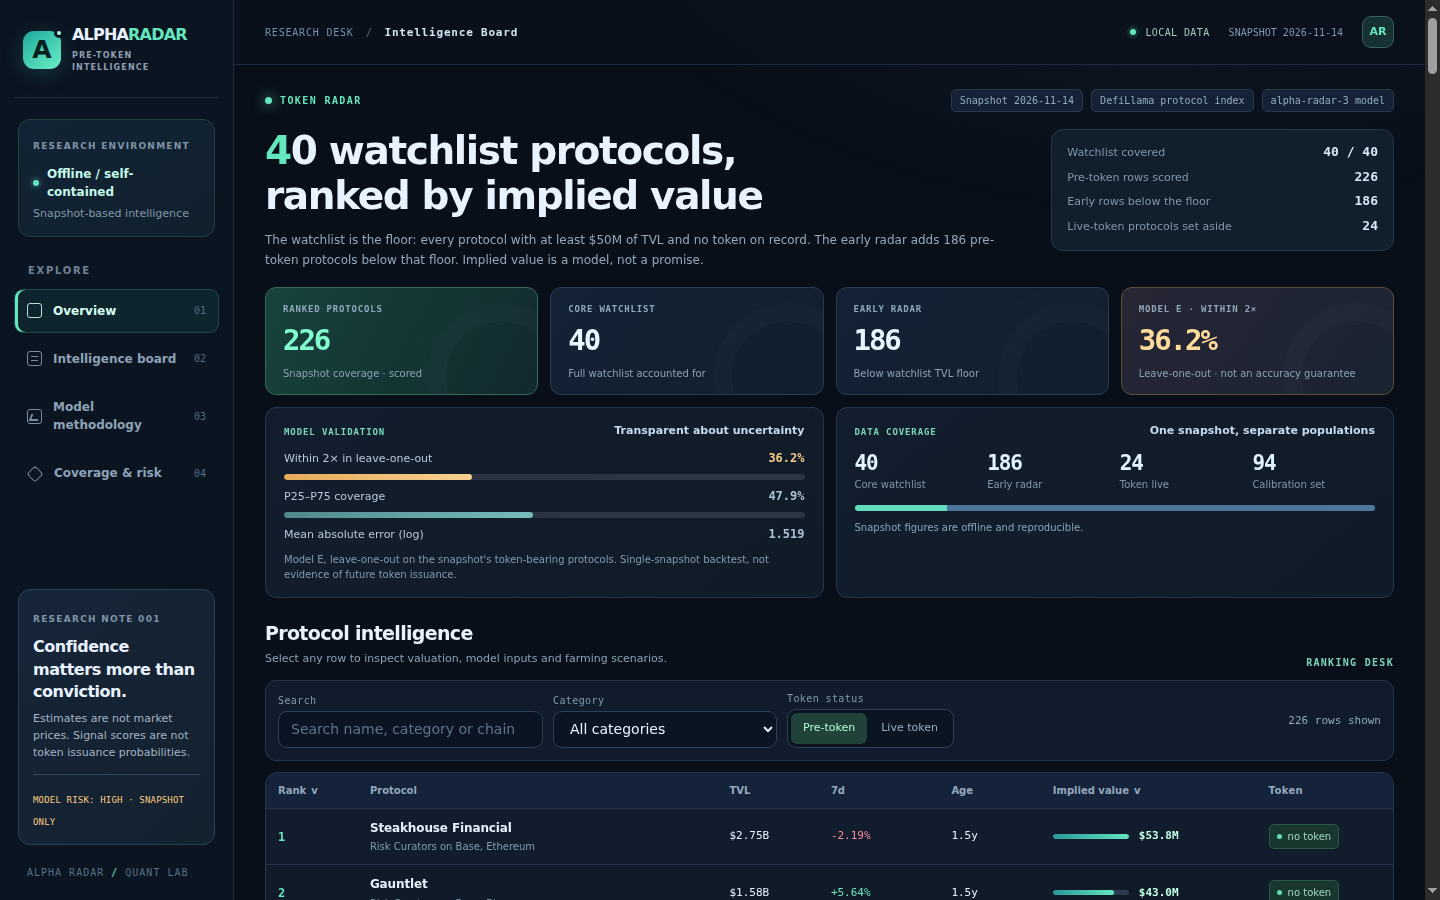
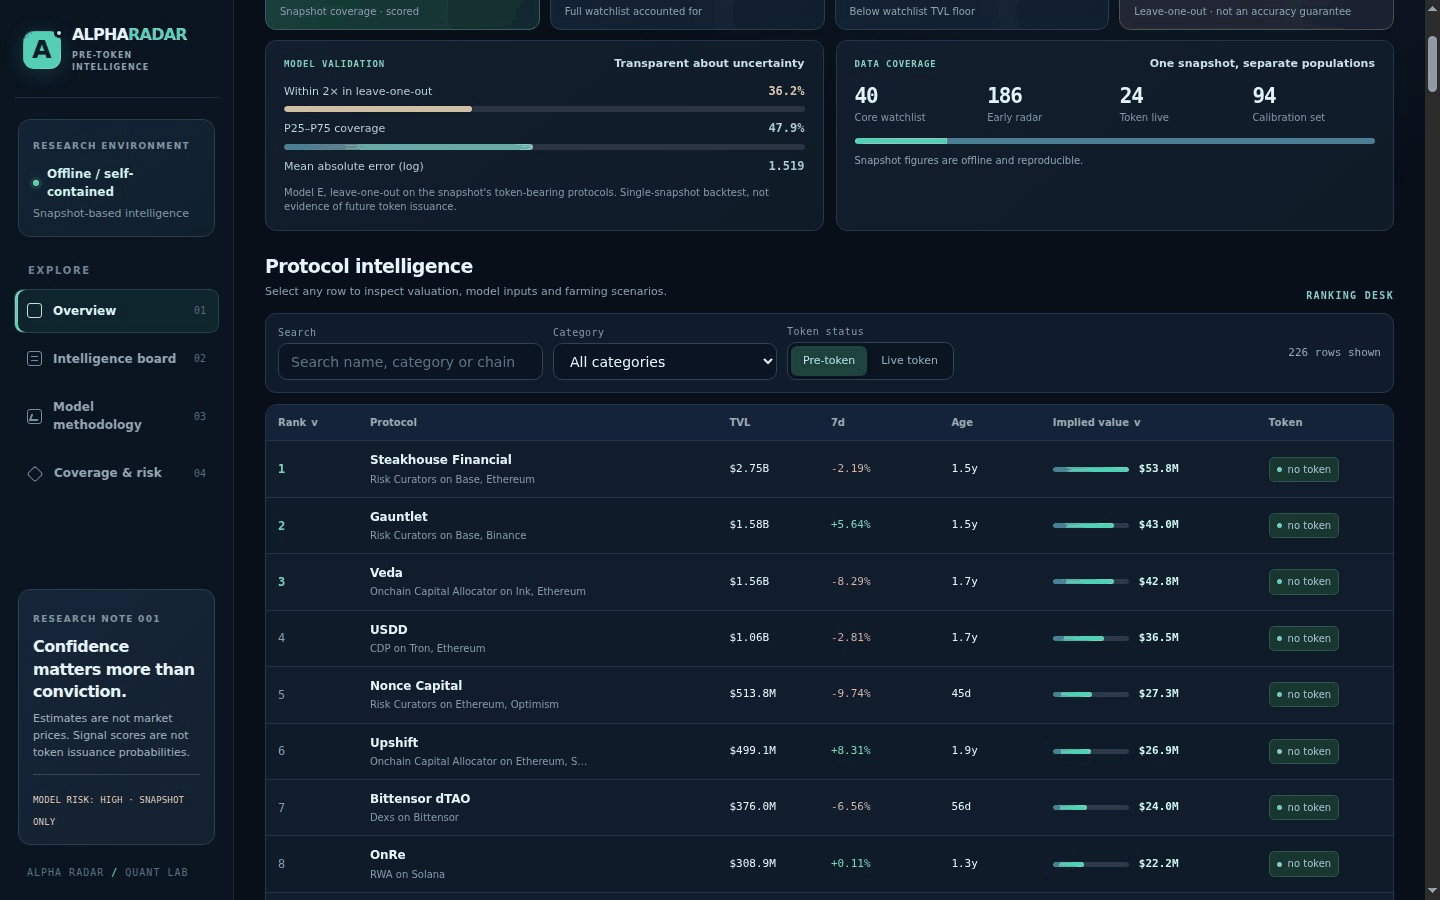
ui: optimize evidence screenshots and show risk context

diff --git a/dashboard/app.css b/dashboard/app.css
@@ -44,15 +44,15 @@ button,input,select{font:inherit;color:inherit}button{cursor:pointer}a{color:var
 .breadcrumb{display:flex;align-items:center;gap:12px;font:10px var(--font-num);letter-spacing:.08em;color:#7690a6}.breadcrumb b{color:#486174}.breadcrumb strong{color:#d1e5f0;font-size:11px}
 .bar-right{display:flex;align-items:center;gap:19px}.quiet-pill{display:flex;align-items:center;gap:9px;color:#a3cabb;font:10px var(--font-num);letter-spacing:.04em}
 .bar-date{font:10px var(--font-num);color:#8397aa}.profile-mark{border:1px solid #365e60;color:var(--accent);background:#173034;border-radius:9px;width:32px;height:32px;display:flex;justify-content:center;align-items:center;font-weight:800;font-size:11px}
-.shell{max-width:1510px;margin:0 auto;padding:24px 31px 45px}
-.top{display:flex;justify-content:space-between;align-items:center;gap:14px;margin-bottom:17px}.brand{display:flex;align-items:center;gap:8px}.mark{display:inline-block;width:7px;height:7px;background:var(--accent);box-shadow:0 0 13px var(--accent);border-radius:50%}.brand-name{font:700 10px var(--font-num);letter-spacing:.14em;color:var(--accent);text-transform:uppercase}
-.top-meta{display:flex;flex-wrap:wrap;gap:8px}.top-meta span{font:10px var(--font-num);color:#93abc0;background:#152235;border:1px solid #293a4e;border-radius:5px;padding:5px 8px}
-.lede{display:grid;grid-template-columns:minmax(0,1.45fr) minmax(260px,.65fr);gap:22px;align-items:start;margin-bottom:17px}
-.lede h1{font-size:clamp(24px,2.75vw,39px);max-width:740px;line-height:1.15}.lede h1::first-letter{color:var(--accent)}
-.lede p{color:#94a8b9;font-size:12px;line-height:1.7;max-width:730px;margin-top:11px}
-.facts{display:grid;gap:7px;align-content:start;border:1px solid var(--border);border-radius:12px;background:#111e2c;padding:14px 15px}.fact{display:flex;align-items:baseline;justify-content:space-between;gap:12px}.fact b{font:600 13px var(--font-num);color:#d7e7f7}.fact span{color:#8297a9;font-size:11px}
-.radar-metrics{display:grid;grid-template-columns:repeat(4,minmax(0,1fr));gap:12px;margin-bottom:12px;scroll-margin-top:85px}
-.radar-metric{min-height:108px;border:1px solid #2a3b50;background:linear-gradient(128deg,#142236,#111e2d);border-radius:11px;padding:16px 17px 13px;display:flex;flex-direction:column;position:relative;overflow:hidden}
+.shell{max-width:1510px;margin:0 auto;padding:18px 31px 38px}
+.top{display:flex;justify-content:space-between;align-items:center;gap:14px;margin-bottom:11px}.brand{display:flex;align-items:center;gap:8px}.mark{display:inline-block;width:7px;height:7px;background:var(--accent);box-shadow:0 0 13px var(--accent);border-radius:50%}.brand-name{font:700 10px var(--font-num);letter-spacing:.14em;color:var(--accent);text-transform:uppercase}
+.top-meta{display:flex;flex-wrap:wrap;gap:6px}.top-meta span{font:9px var(--font-num);color:#93abc0;background:#152235;border:1px solid #293a4e;border-radius:5px;padding:4px 7px}
+.lede{display:grid;grid-template-columns:minmax(0,1.55fr) minmax(260px,.55fr);gap:18px;align-items:start;margin-bottom:11px}
+.lede h1{font-size:clamp(24px,2.3vw,33px);max-width:740px;line-height:1.1}.lede h1::first-letter{color:var(--accent)}
+.lede p{color:#94a8b9;font-size:11px;line-height:1.5;max-width:730px;margin-top:7px}
+.facts{display:grid;grid-template-columns:1fr 1fr;gap:5px 12px;align-content:start;border:1px solid var(--border);border-radius:12px;background:#111e2c;padding:10px 12px}.fact{display:flex;align-items:baseline;justify-content:space-between;gap:8px}.fact b{font:600 12px var(--font-num);color:#d7e7f7}.fact span{color:#8297a9;font-size:10px}
+.radar-metrics{display:grid;grid-template-columns:repeat(4,minmax(0,1fr));gap:10px;margin-bottom:10px;scroll-margin-top:85px}
+.radar-metric{min-height:82px;border:1px solid #2a3b50;background:linear-gradient(128deg,#142236,#111e2d);border-radius:11px;padding:11px 14px 10px;display:flex;flex-direction:column;position:relative;overflow:hidden}
 .radar-metric:before{content:"";position:absolute;right:-21px;bottom:-40px;width:112px;height:112px;border-radius:50%;border:1px solid rgba(156,188,212,.07);box-shadow:0 0 0 17px rgba(156,188,212,.022),0 0 0 37px rgba(156,188,212,.012)}
 .radar-metric.metric-primary{background:linear-gradient(117deg,#17433d,#12292d);border-color:#346a5c}.radar-metric.metric-caution{border-color:#5c4f37;background:linear-gradient(126deg,#272635,#192332)}
 .metric-label{font:700 9px var(--font-num);letter-spacing:.09em;color:#91a8bb}.metric-value{font:650 29px/1.25 var(--font-num);letter-spacing:-.07em;color:#e8f6ff;margin-top:8px}.metric-primary .metric-value{color:#83ffcf}.metric-caution .metric-value{color:#ffdb9c}.metric-note{font-size:10px;color:#8ca2b2;margin-top:auto}
@@ -85,7 +85,8 @@ td:nth-child(1){color:#7f9cb1;font:12px var(--font-num)}tbody tr:nth-child(-n+3)
 .detail-head{display:flex;align-items:start;justify-content:space-between;gap:14px;padding-bottom:16px}.detail-head h2{font-size:27px;margin-top:8px;letter-spacing:-.04em}.detail-head .sub{font-size:11px;margin-top:4px}.detail .brand-name{font-size:10px}.close{height:34px;min-width:48px;border:1px solid #33495b;border-radius:8px;background:#17283b;font-size:11px;color:#d3e7f8;padding:0 12px}
 .detail-section{border-top:1px solid #2a3c50;padding:17px 0 0;margin-top:17px}.detail-section h3{font-size:14px;margin-bottom:10px;color:#eef9ff}
 .equation{display:grid;gap:0;font-family:var(--font-num);font-size:11px}.equation>div{display:flex;align-items:center;justify-content:space-between;gap:13px;padding:8px 0;border-bottom:1px solid #203145}.equation>div>span{color:#91a5ba;flex:1}.equation b{color:#e1f4ff;font-weight:600;text-align:right}.detail-section>.sub{font-size:11px;line-height:1.65;margin:9px 0;color:#a6b9c9}
-.detail-section .equation>div:last-child b{color:#73e5c0}.steps{margin:0;padding-left:20px;display:grid;gap:12px}.steps li{color:#6ee3c1;padding-left:5px}.steps li b{color:#d8eaf8;display:block;font-weight:600;font-size:12px}.cost{color:#93a8bb;font-size:11px;font-family:var(--font-num)}
+.risk-section{background:linear-gradient(135deg,rgba(44,52,69,.42),rgba(26,37,51,.42));border:1px solid #3a485b;border-radius:10px;padding:14px 15px 15px;margin-top:17px}.risk-section h3{color:#ffdaa0}.risk-flags{margin:10px 0 0;padding-left:18px;display:grid;gap:7px;color:#c8d7e4;font-size:11px;line-height:1.45}.risk-flags li::marker{color:var(--amber)}
+.steps{margin:0;padding-left:20px;display:grid;gap:12px}.steps li{color:#6ee3c1;padding-left:5px}.steps li b{color:#d8eaf8;display:block;font-weight:600;font-size:12px}.cost{color:#93a8bb;font-size:11px;font-family:var(--font-num)}
 #sim{background:#152437;border:1px solid #304657;border-radius:11px;padding:16px!important;margin-top:20px}
 #sim label{display:flex;flex-direction:column;gap:5px;color:#98afbd;font-size:11px}#sim input{height:34px;font:12px var(--font-num);padding:7px 9px;border-radius:7px;border:1px solid #354c5b;background:#0b1827;color:#e9f3ff;min-width:0;width:100%}
 #sim .equation:nth-of-type(2){display:grid;grid-template-columns:1fr 1fr;gap:9px 12px;margin:13px 0}#sim .equation:nth-of-type(2)>div{padding:0;border:0;display:block}

diff --git a/dashboard/app.js b/dashboard/app.js
@@ -384,6 +384,11 @@
       el('p', { class: 'sub', text: 'Signals: ' + row.signal_note + '. The score is a weighted count of record features, not a probability. It has no outcome data behind it and is not calibrated.' }),
       el('p', { class: 'sub', text: 'Low and high scale the model value by exp(P25) and exp(P75) of the log residuals from the ' + DATA.calibration.n + ' token-bearing protocols in this snapshot (Model E band). Model E leave-one-out refit: within 2× of the true value ' + DATA.calibration.e_loo_within_2x_pct + '% of the time, inside the P25–P75 band ' + DATA.calibration.e_loo_p25_p75_cov_pct + '% of the time, mean absolute log error ' + DATA.calibration.e_loo_mae_log.toFixed(3) + '.' })
     ));
+    dialog.appendChild(el('section', { class: 'detail-section risk-section' },
+      el('h3', { text: 'Risk profile' }),
+      el('p', { class: 'sub', text: 'Data-derived ' + row.risk_level + ' risk context. These flags describe where the snapshot or calibration is thin; they do not change rank or imply token issuance.' }),
+      row.risk_flags.length ? el('ul', { class: 'risk-flags' }, row.risk_flags.map(function (flag) { return el('li', { text: flag }); })) : el('p', { class: 'sub', text: 'No additional snapshot risk flags were raised for this protocol.' })
+    ));
     dialog.appendChild(farmSimulator(row));
     dialog.appendChild(el('section', { class: 'detail-section' },
       el('h3', { text: 'Farm plan' }),
